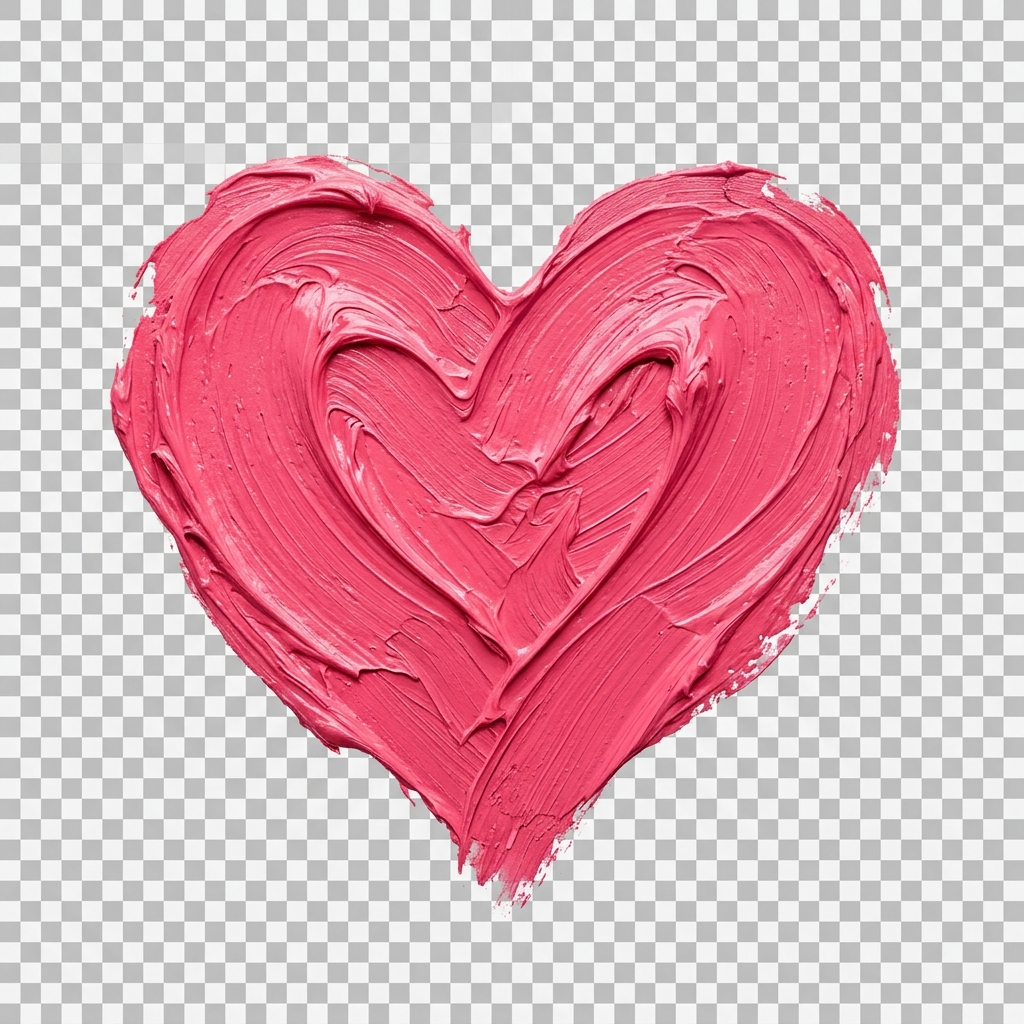
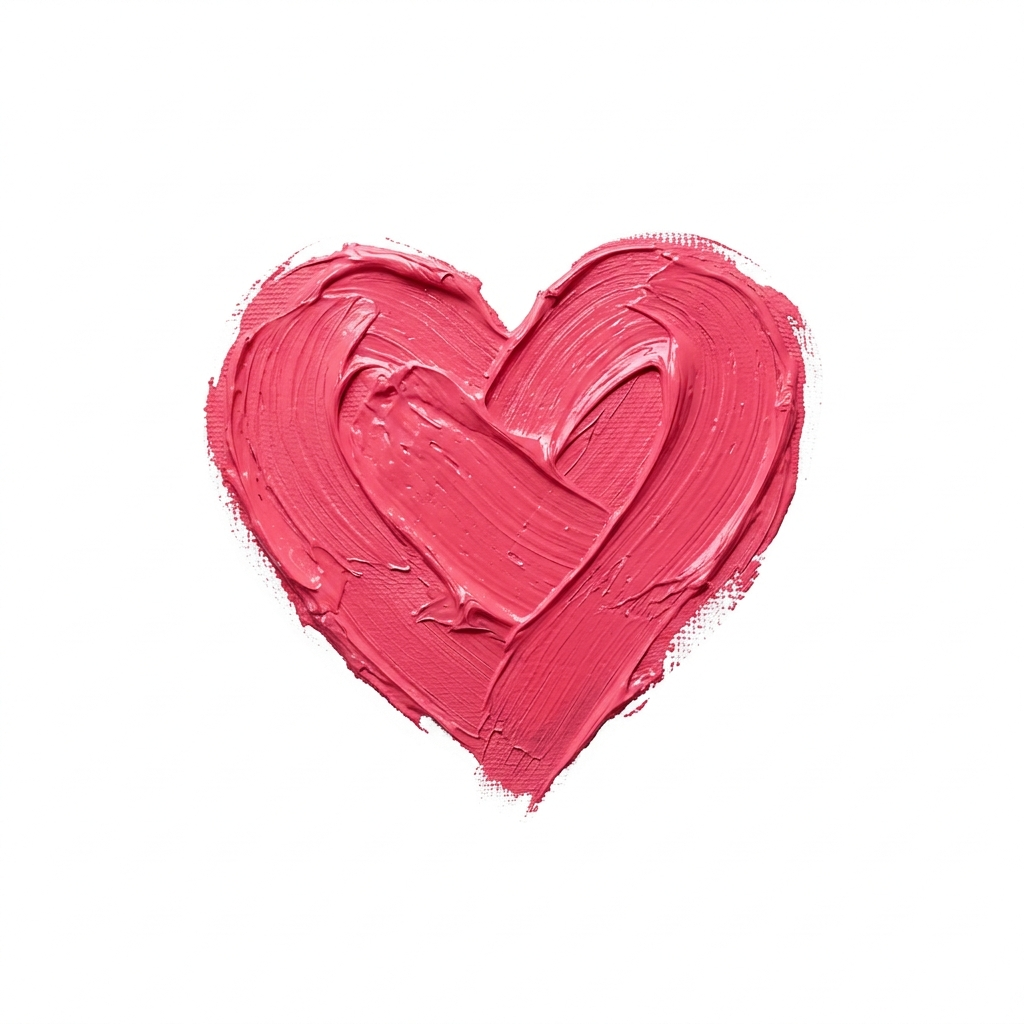
feat: major upgrade to gallery, branding, and image stability

diff --git a/src/features/shop/ProductPage.tsx b/src/features/shop/ProductPage.tsx
@@ -283,9 +283,50 @@ const ProductPage = () => {
       {showFullscreen && (
         <div 
           ref={scrollRef}
-          className="fixed inset-0 z-[100] bg-black/95 overflow-auto cursor-pointer p-4 md:p-12"
+          className="fixed inset-0 z-[100] bg-black/95 overflow-auto cursor-default"
           onClick={() => { setShowFullscreen(false); setIsZoomed(false); }}
         >
+          {/* Close Button */}
+          <button 
+            onClick={() => { setShowFullscreen(false); setIsZoomed(false); }}
+            className="fixed top-6 right-6 p-3 bg-white/10 hover:bg-white/20 rounded-full text-white transition-colors z-[120]"
+          >
+            <X className="w-6 h-6" />
+          </button>
+
+          {/* Navigation Arrows (Desktop) */}
+          {!isZoomed && product.images.length > 1 && (
+            <>
+              <button 
+                onClick={(e) => { e.stopPropagation(); setActiveImage(prev => prev === 0 ? product.images.length - 1 : prev - 1); }}
+                className="fixed left-6 top-1/2 -translate-y-1/2 p-4 bg-white/5 hover:bg-white/10 rounded-full text-white transition-all z-[110]"
+              >
+                <ChevronRight className="w-8 h-8 rotate-180" />
+              </button>
+              <button 
+                onClick={(e) => { e.stopPropagation(); setActiveImage(prev => prev === product.images.length - 1 ? 0 : prev + 1); }}
+                className="fixed right-6 top-1/2 -translate-y-1/2 p-4 bg-white/5 hover:bg-white/10 rounded-full text-white transition-all z-[110]"
+              >
+                <ChevronRight className="w-8 h-8" />
+              </button>
+            </>
+          )}
+
+          {/* Flying Arrow Indicator (Hint) */}
+          <AnimatePresence>
+            {!isZoomed && product.images.length > 1 && (
+              <motion.div 
+                initial={{ opacity: 0, x: -20 }}
+                animate={{ opacity: [0, 1, 0], x: [0, 40, 60] }}
+                transition={{ duration: 2, repeat: 2, repeatDelay: 1 }}
+                className="fixed right-12 top-1/2 -translate-y-1/2 pointer-events-none z-[115] flex items-center gap-2 text-white/40"
+              >
+                <span className="text-[10px] font-black uppercase tracking-[0.4em]">Desliza</span>
+                <ChevronRight className="w-6 h-6" />
+              </motion.div>
+            )}
+          </AnimatePresence>
+
           <div 
             className={`min-h-full min-w-full flex items-center justify-center ${isZoomed ? 'w-[300vw] h-[300vh]' : ''}`}
           >
@@ -293,23 +334,38 @@ const ProductPage = () => {
               className={`relative ${isZoomed ? 'cursor-zoom-out' : 'cursor-zoom-in'}`}
               onClick={(e) => { e.stopPropagation(); setIsZoomed(!isZoomed); }}
             >
-              <img 
-                src={displayImages[activeImage]} 
-                alt={product.name}
-                className={`transition-all duration-500 shadow-2xl rounded-sm ${isZoomed ? 'max-w-none w-[180vw] md:w-[120vw]' : 'max-w-[90vw] max-h-[90vh] object-contain'}`}
-              />
+              <AnimatePresence mode="wait">
+                <motion.img 
+                  key={activeImage}
+                  initial={{ opacity: 0 }}
+                  animate={{ opacity: 1 }}
+                  exit={{ opacity: 0 }}
+                  src={displayImages[activeImage]} 
+                  alt={product.name}
+                  className={`transition-all duration-500 shadow-2xl rounded-sm ${isZoomed ? 'max-w-none w-[180vw] md:w-[120vw]' : 'max-w-[90vw] max-h-[85vh] object-contain'}`}
+                />
+              </AnimatePresence>
               {/* Watermark */}
               <div className={`absolute pointer-events-none opacity-40 select-none transition-none ${isZoomed ? 'bottom-32 right-16 w-32 md:w-48' : 'bottom-6 right-6 w-20 md:w-32'}`}>
                 <img src="/LOGO%20MELOMEREZCO%20corona%20blanco.png" alt="" className="w-full h-auto" />
               </div>
             </div>
           </div>
-          <button 
-            onClick={() => { setShowFullscreen(false); setIsZoomed(false); }}
-            className="fixed top-6 right-6 p-3 bg-white/10 hover:bg-white/20 rounded-full text-white transition-colors z-[110]"
-          >
-            <X className="w-6 h-6" />
-          </button>
+
+          {/* Thumbnails row */}
+          {!isZoomed && product.images.length > 1 && (
+            <div className="fixed bottom-12 left-1/2 -translate-x-1/2 flex gap-3 px-6 py-4 bg-black/40 backdrop-blur-md rounded-2xl z-[120]">
+              {product.images.map((img: string, idx: number) => (
+                <button
+                  key={idx}
+                  onClick={(e) => { e.stopPropagation(); setActiveImage(idx); }}
+                  className={`w-12 h-16 rounded-lg overflow-hidden border-2 transition-all ${activeImage === idx ? 'border-primary scale-110 shadow-lg' : 'border-transparent opacity-40 hover:opacity-100'}`}
+                >
+                  <img src={img} alt="" className="w-full h-full object-cover" />
+                </button>
+              ))}
+            </div>
+          )}
         </div>
       )}
     </div>

diff --git a/src/features/shop/ConocenosPage.tsx b/src/features/shop/ConocenosPage.tsx
@@ -1,9 +1,35 @@
-import React from 'react';
+import React, { useState } from 'react';
 import { motion } from 'framer-motion';
 import { Heart } from 'lucide-react';
 import { Link } from 'react-router-dom';
+import { NewsletterSection } from './components/NewsletterSection';
+import { api } from "@/lib/api";
 
 const ConocenosPage: React.FC = () => {
+  const [email, setEmail] = useState('');
+  const [isSubmitting, setIsSubmitting] = useState(false);
+  const [isSubscribed, setIsSubscribed] = useState(false);
+
+  const handleSubscribe = async (e: React.FormEvent) => {
+    e.preventDefault();
+    setIsSubmitting(true);
+    try {
+      const token = Math.random().toString(36).substring(2, 15) + Math.random().toString(36).substring(2, 15);
+      await api.subscriptions.create({
+        email,
+        status: 'pending',
+        confirmation_token: token
+      });
+      await api.mail.sendConfirmationEmail(email, token);
+      setIsSubscribed(true);
+      setEmail('');
+    } catch (error) {
+      console.error('Subscription error:', error);
+      alert('Error al suscribirse. Por favor, inténtalo de nuevo.');
+    } finally {
+      setIsSubmitting(false);
+    }
+  };
   return (
     <div className="min-h-screen bg-accent/20">
       {/* Hero Section */}
@@ -129,33 +155,14 @@ const ConocenosPage: React.FC = () => {
         </div>
       </section>
 
-      {/* Newsletter - Sophisticated */}
-      <section className="py-24 md:py-40 bg-white text-black">
-        <div className="max-w-[1800px] mx-auto px-6 grid grid-cols-1 lg:grid-cols-2 gap-20 items-center">
-          <div>
-            <h2 className="text-4xl md:text-6xl font-black tracking-tighter uppercase italic mb-6">ÚNETE A NOSOTRAS</h2>
-            <p className="text-gray-500 text-lg max-w-md font-medium">Suscríbete para enterarte de las últimas novedades, consejos de estilo y cositas especiales que preparamos para ti.</p>
-          </div>
-          <div className="flex flex-col gap-4">
-            <form onSubmit={(e) => { e.preventDefault(); }} className="flex flex-col gap-4">
-              <div className="flex flex-col sm:flex-row gap-4">
-                <input
-                  type="email"
-                  placeholder="TU DIRECCIÓN DE EMAIL"
-                  className="flex-1 border-b-2 border-black bg-transparent px-2 py-4 text-sm font-bold focus:outline-none focus:border-primary placeholder:text-gray-300 min-w-0"
-                />
-                <button 
-                  type="submit" 
-                  className="px-8 md:px-12 font-black whitespace-nowrap bg-primary text-white hover:bg-primary/90 transition-colors py-4"
-                >
-                  UNIRSE
-                </button>
-              </div>
-              <p className="text-[10px] text-gray-400 uppercase tracking-widest mt-4">Al suscribirte aceptas nuestra política de privacidad.</p>
-            </form>
-          </div>
-        </div>
-      </section>
+      {/* Newsletter Section */}
+      <NewsletterSection 
+        email={email}
+        setEmail={setEmail}
+        isSubmitting={isSubmitting}
+        isSubscribed={isSubscribed}
+        onSubscribe={handleSubscribe}
+      />
     </div>
   );
 };

diff --git a/src/features/shop/components/NewsletterSection.tsx b/src/features/shop/components/NewsletterSection.tsx
@@ -20,7 +20,7 @@ export const NewsletterSection: React.FC<NewsletterSectionProps> = ({
   return (
     <section className="py-24 md:py-40 bg-white text-black relative overflow-hidden">
       {/* Decorative Brush Heart Background */}
-      <div className="absolute top-1/2 left-1/4 -translate-y-1/2 -translate-x-1/2 w-[300px] md:w-[600px] h-auto opacity-[0.07] pointer-events-none select-none -rotate-12 z-0">
+      <div className="absolute top-1/2 left-1/4 -translate-y-1/2 -translate-x-1/2 w-[350px] md:w-[700px] h-auto opacity-[0.18] pointer-events-none select-none -rotate-12 z-0 mix-blend-multiply">
         <img 
           src="/corazon-brocha.png" 
           alt="" 

diff --git a/src/components/shop/ProductImage.tsx b/src/components/shop/ProductImage.tsx
@@ -43,7 +43,9 @@ export const ProductImage: React.FC<ProductImageProps> = ({
           duration: 0.8, 
           ease: [0.21, 0, 0.07, 1] 
         }}
-        className={`w-full h-full ${
+        className={`w-full h-full transition-opacity duration-300 ${
+          loaded || isPlaceholder ? 'opacity-100' : 'opacity-0'
+        } ${
           isPlaceholder 
             ? 'object-contain p-12 md:p-20 opacity-80' 
             : 'object-cover group-hover:scale-105'
